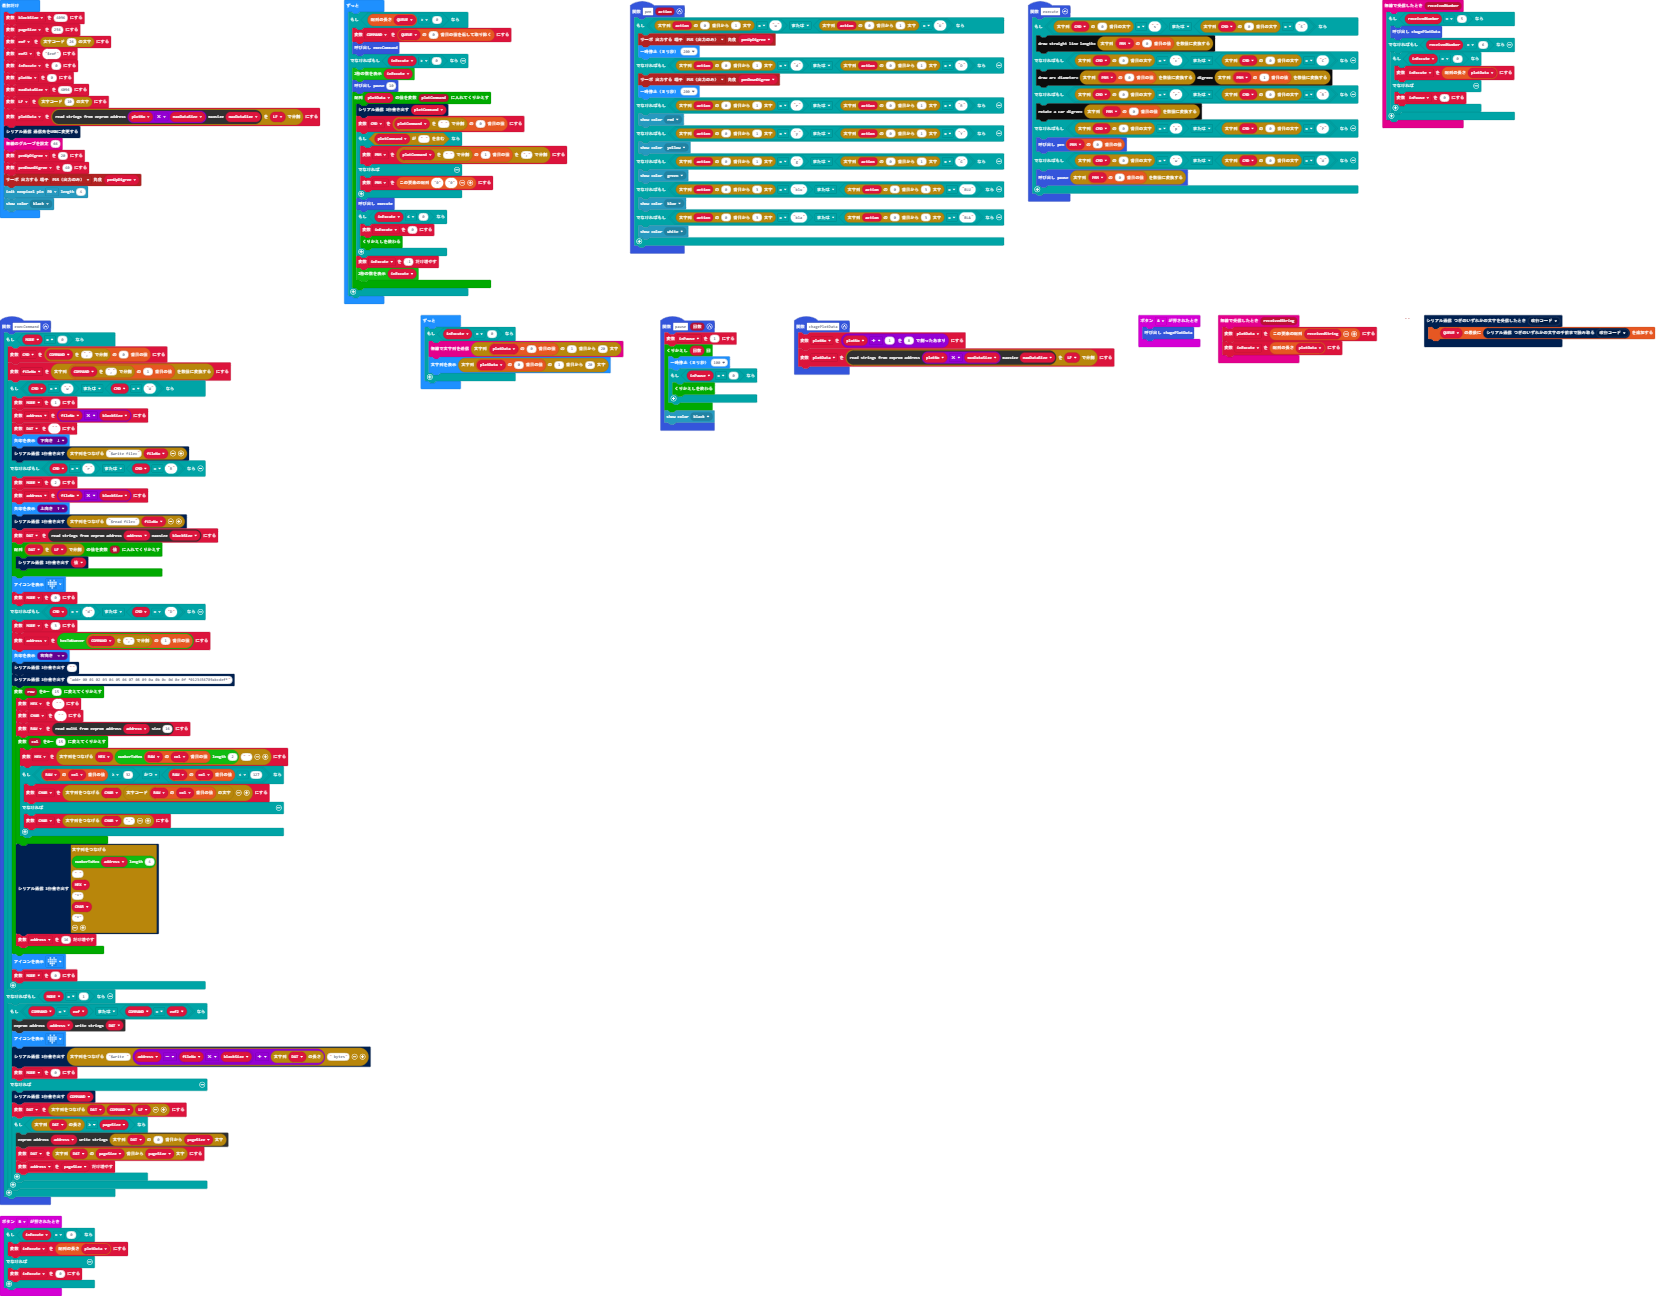
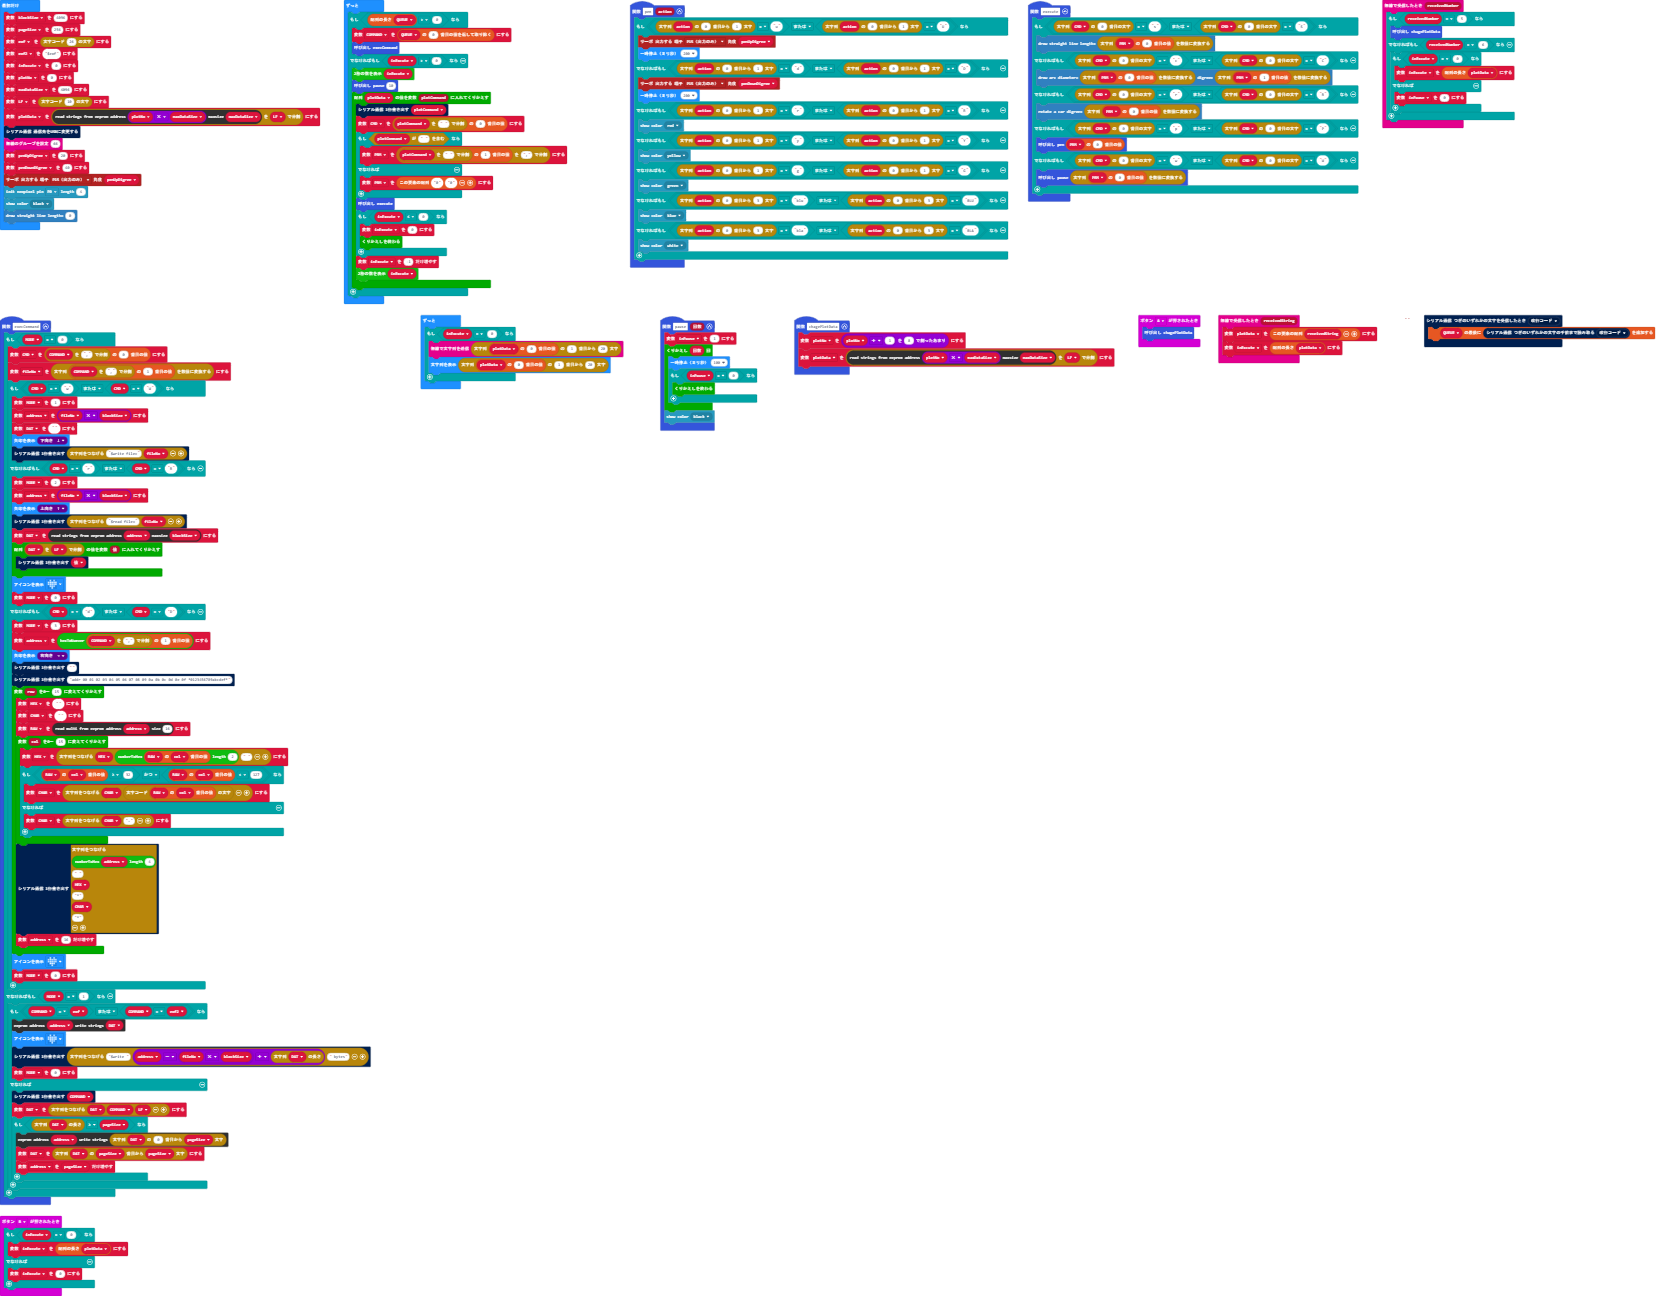
更新 main.blocks, main.ts

Changed region(s): [[0.3741, 0.0, 0.7482, 0.216], [0.0, 0.1543, 0.0624, 0.1852]]

diff --git a/main.ts b/main.ts
@@ -173,6 +173,7 @@ penDownDigree = 40
 pins.servoWritePin(AnalogPin.P15, penUpDigree)
 neopixel.initNeopixel(DigitalPin.P0, 4)
 neopixel.showColor(neopixel.colors(neopixel.Colors.Black))
+plotterCar.Straight(0)
 basic.forever(function () {
     if (QUEUE.length > 0) {
         COMMAND = QUEUE.removeAt(0)
